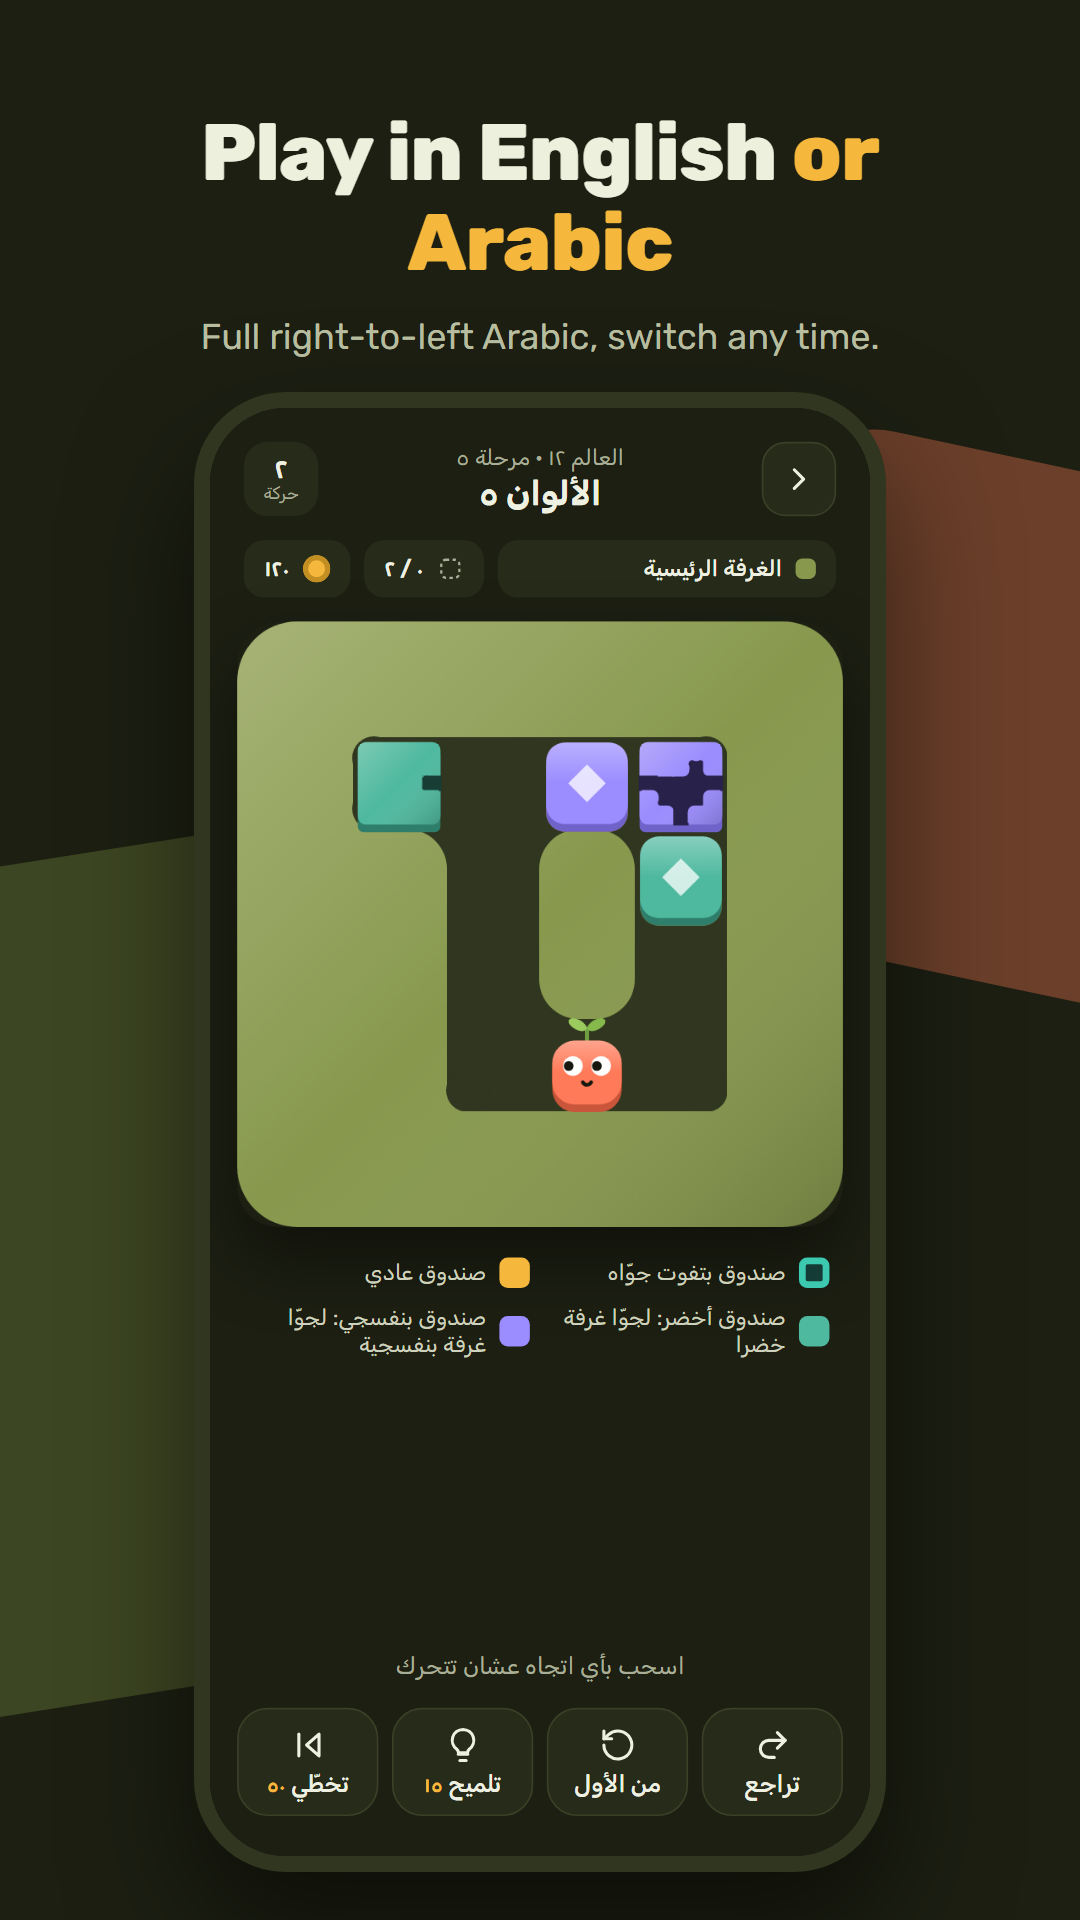
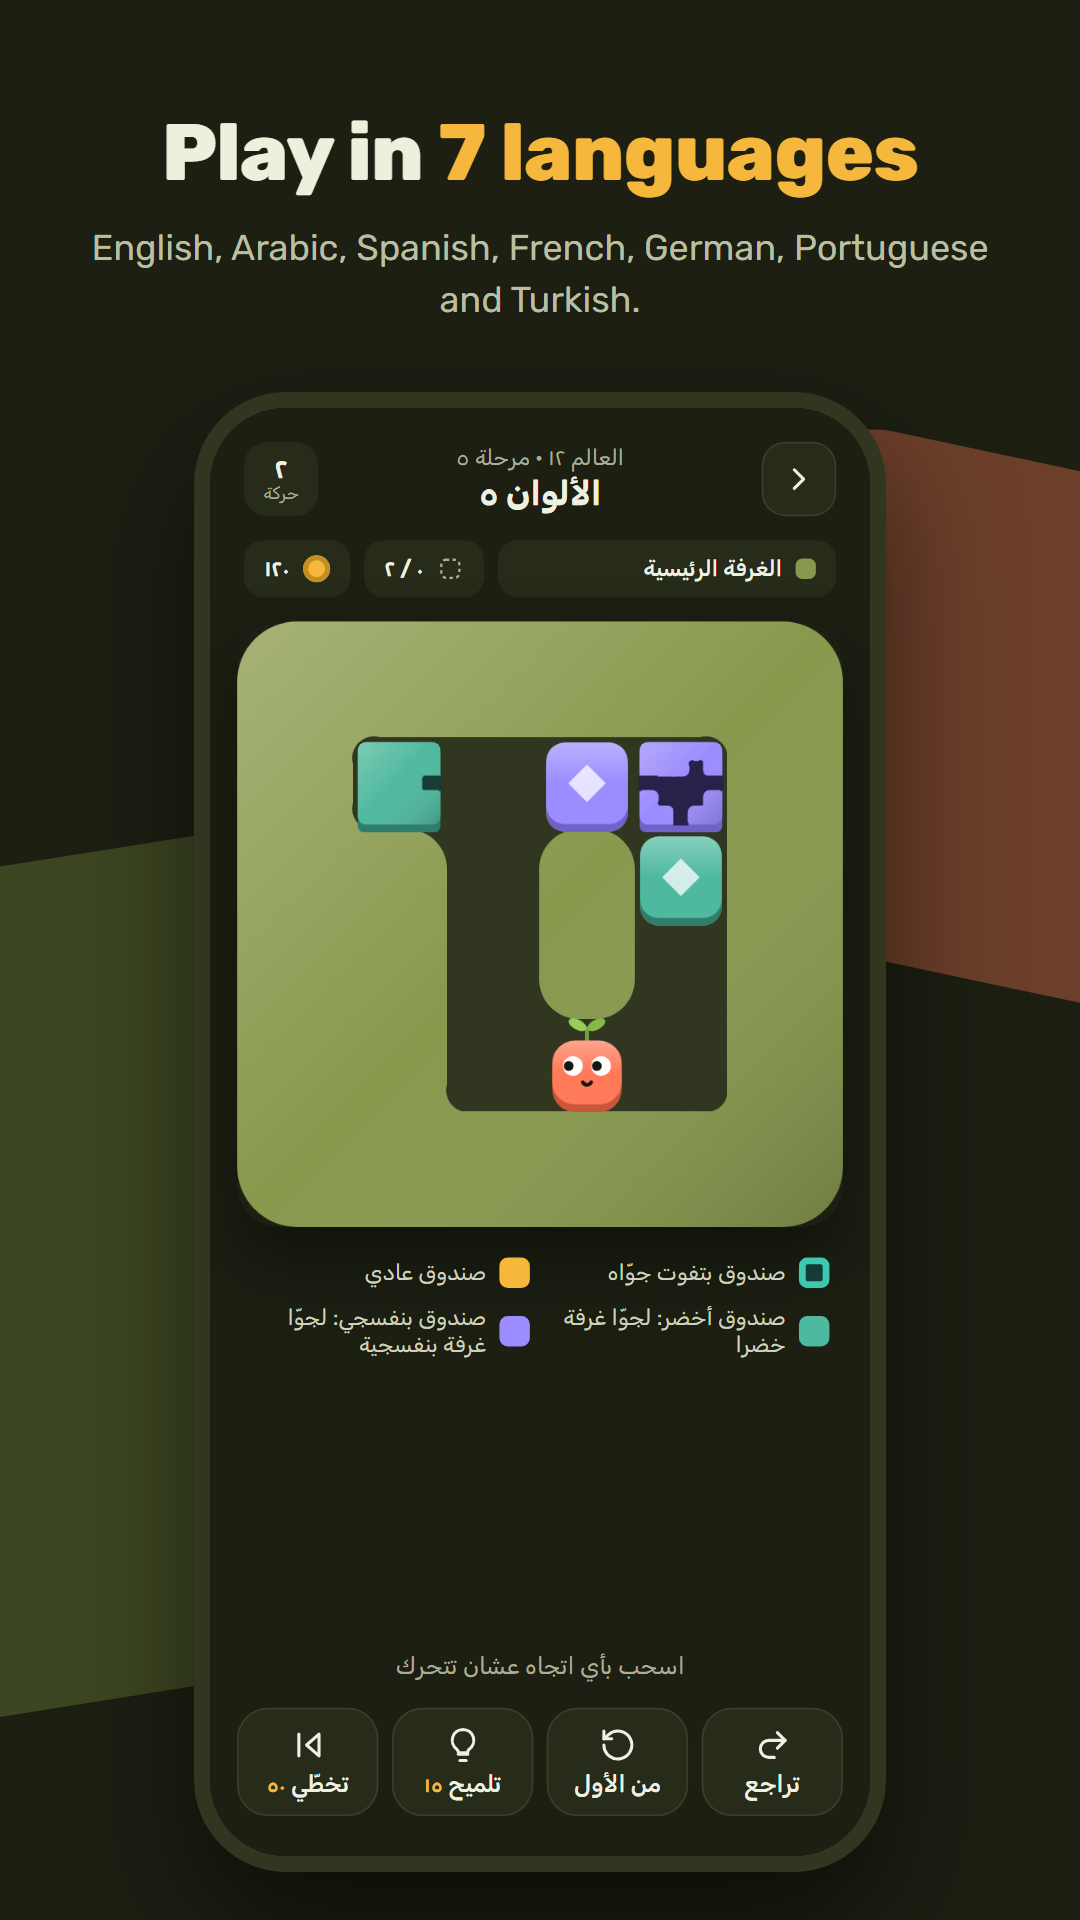
Store screenshot 7: play in 7 languages

Changed region(s): [[0.1528, 0.0625, 0.9167, 0.1875], [0.0917, 0.125, 0.1833, 0.1562]]

diff --git a/store/src/shot.html b/store/src/shot.html
@@ -37,7 +37,7 @@
     4: { title: 'Holes, cracks <em style="color:#F0C24B">&amp; colors</em>', sub: 'New rules in every world, always about rooms in rooms.', a: '#5A6630', b: '#F0C24B', world: 9, n: 6, moves: 0 },
     5: { title: 'Stuck? <em style="color:#FF7A59">Get a hint</em>', sub: 'First the idea in one sentence, then the moves.', a: '#88994E', b: '#F5B83D', world: 5, n: 5, moves: 4, hint: true },
     6: { title: '<em style="color:#4FB9A0">14</em> worlds · a <em style="color:#F0C24B">daily</em> puzzle', sub: 'Stars, achievements, and a new hard puzzle every day.', a: '#88994E', b: '#4FB9A0', levels: true },
-    7: { title: 'Play in English <em style="color:#F5B83D">or Arabic</em>', sub: 'Full right-to-left Arabic, switch any time.', a: '#5A6630', b: '#FF7A59', world: 11, n: 4, moves: 2, lang: 'ar' }
+    7: { title: 'Play in <em style="color:#F5B83D">7 languages</em>', sub: 'English, Arabic, Spanish, French, German, Portuguese and Turkish.', a: '#5A6630', b: '#FF7A59', world: 11, n: 4, moves: 2, lang: 'ar' }
   };
   const S = SHOTS[new URLSearchParams(location.search).get('shot') || '1'];
   document.getElementById('title').innerHTML = S.title;

diff --git a/README.md b/README.md
@@ -31,7 +31,7 @@
 <p align="center">
   <img src="store/screenshots/05-hints.png" width="200" alt="Two-step hints">
   <img src="store/screenshots/06-14-worlds-daily.png" width="200" alt="14 worlds and a daily puzzle">
-  <img src="store/screenshots/07-english-arabic.png" width="200" alt="English and Arabic">
+  <img src="store/screenshots/07-english-arabic.png" width="200" alt="Seven languages">
 </p>
 
 ## The game
